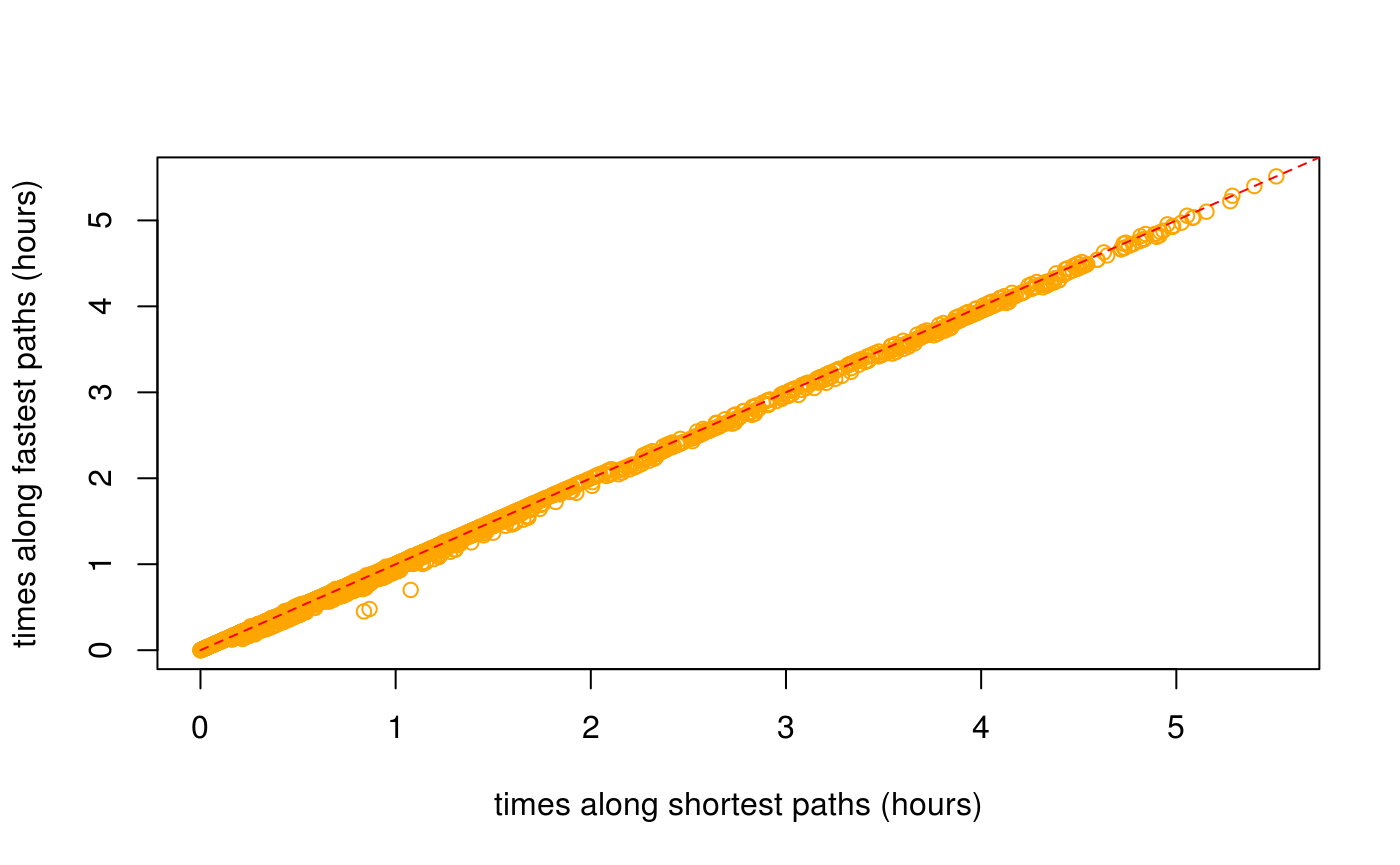
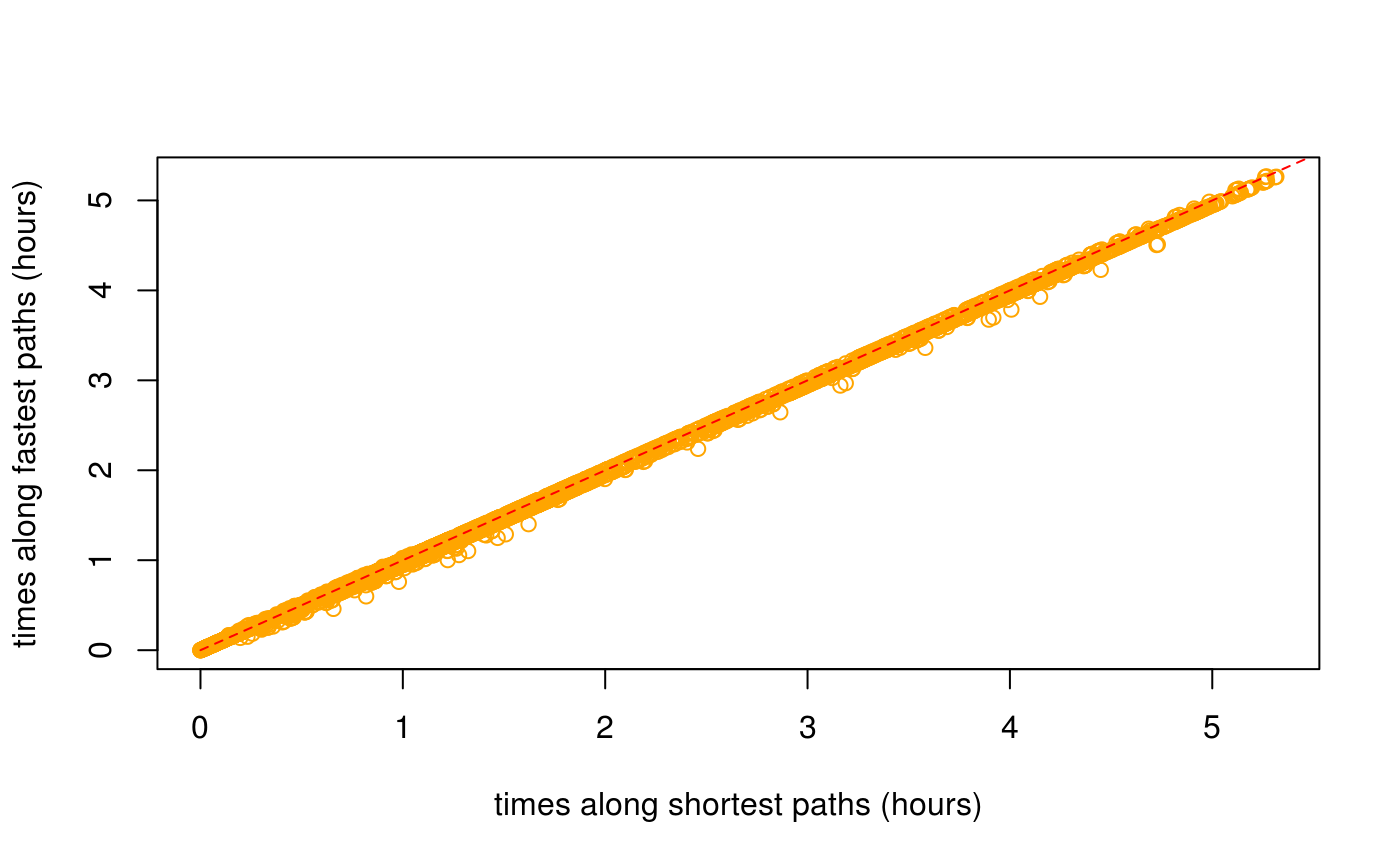
Built site for dodgr: 0.1.4.7@c9f664d

diff --git a/articles/dodgr.html b/articles/dodgr.html
@@ -343,7 +343,7 @@ Figure 2: A <strong>dual</strong>-weighted, directed graph in which the weights 
 <p>The <code>dodgr</code> packages includes a function to select a random connected portion of graph including a specified number of vertices. This function is used in the <code><a href="../reference/compare_heaps.html">compare_heaps()</a></code> function described below, but is also useful for general statistical analyses of large graphs which may otherwise take too long to compute.</p>
 <div class="sourceCode" id="cb59"><pre class="sourceCode r"><code class="sourceCode r"><a class="sourceLine" id="cb59-1" data-line-number="1">graph_sub &lt;-<span class="st"> </span><span class="kw"><a href="../reference/dodgr_sample.html">dodgr_sample</a></span> (graph, <span class="dt">nverts =</span> <span class="dv">100</span>)</a>
 <a class="sourceLine" id="cb59-2" data-line-number="2"><span class="kw"><a href="https://www.rdocumentation.org/packages/base/topics/nrow">nrow</a></span> (graph_sub)</a></code></pre></div>
-<pre><code>## [1] 201</code></pre>
+<pre><code>## [1] 197</code></pre>
 <p>The random sample has around twice as many edges as vertices, in accordance with the statistics calculated above.</p>
 <div class="sourceCode" id="cb61"><pre class="sourceCode r"><code class="sourceCode r"><a class="sourceLine" id="cb61-1" data-line-number="1"><span class="kw"><a href="https://www.rdocumentation.org/packages/base/topics/nrow">nrow</a></span> (<span class="kw"><a href="../reference/dodgr_vertices.html">dodgr_vertices</a></span> (graph_sub))</a></code></pre></div>
 <pre><code>## [1] 100</code></pre>
@@ -423,28 +423,28 @@ Figure 2: A <strong>dual</strong>-weighted, directed graph in which the weights 
 ## 12                  d &lt;- igraph::distances(igr, v = from_id, to = to_id, mode = "out")
 ## 6       d &lt;- dodgr_dists(graph_contracted, from = from_id, to = to_id, heap = "BHeap")
 ## 7       d &lt;- dodgr_dists(graph_contracted, from = from_id, to = to_id, heap = "FHeap")
-## 5                 d &lt;- dodgr_dists(graph, from = from_id, to = to_id, heap = "Heap23")
 ## 8     d &lt;- dodgr_dists(graph_contracted, from = from_id, to = to_id, heap = "TriHeap")
 ## 9  d &lt;- dodgr_dists(graph_contracted, from = from_id, to = to_id, heap = "TriHeapExt")
 ## 10     d &lt;- dodgr_dists(graph_contracted, from = from_id, to = to_id, heap = "Heap23")
-## 11        d &lt;- dodgr_dists(graph_contracted, from = from_id, to = to_id, heap = "set")
 ## 4             d &lt;- dodgr_dists(graph, from = from_id, to = to_id, heap = "TriHeapExt")
+## 5                 d &lt;- dodgr_dists(graph, from = from_id, to = to_id, heap = "Heap23")
+## 11        d &lt;- dodgr_dists(graph_contracted, from = from_id, to = to_id, heap = "set")
 ## 1                  d &lt;- dodgr_dists(graph, from = from_id, to = to_id, heap = "BHeap")
-## 3                d &lt;- dodgr_dists(graph, from = from_id, to = to_id, heap = "TriHeap")
 ## 2                  d &lt;- dodgr_dists(graph, from = from_id, to = to_id, heap = "FHeap")
+## 3                d &lt;- dodgr_dists(graph, from = from_id, to = to_id, heap = "TriHeap")
 ##    replications elapsed relative user.self sys.self user.child sys.child
-## 12            1   0.001        1     0.004        0          0         0
+## 12            1   0.001        1     0.000        0          0         0
 ## 6             1   0.002        2     0.004        0          0         0
-## 7             1   0.002        2     0.004        0          0         0
-## 5             1   0.003        3     0.000        0          0         0
-## 8             1   0.003        3     0.004        0          0         0
-## 9             1   0.003        3     0.000        0          0         0
-## 10            1   0.003        3     0.000        0          0         0
+## 7             1   0.002        2     0.000        0          0         0
+## 8             1   0.002        2     0.000        0          0         0
+## 9             1   0.002        2     0.004        0          0         0
+## 10            1   0.002        2     0.004        0          0         0
+## 4             1   0.003        3     0.004        0          0         0
+## 5             1   0.003        3     0.004        0          0         0
 ## 11            1   0.003        3     0.004        0          0         0
-## 4             1   0.004        4     0.004        0          0         0
-## 1             1   0.005        5     0.004        0          0         0
-## 3             1   0.005        5     0.004        0          0         0
-## 2             1   0.009        9     0.008        0          0         0</code></pre>
+## 1             1   0.004        4     0.004        0          0         0
+## 2             1   0.004        4     0.004        0          0         0
+## 3             1   0.004        4     0.004        0          0         0</code></pre>
 <p>The key column of that <code>data.frame</code> is <code>relative</code>, which quantifies the relative performance of each test in relation to the best which is given a score of 1. <code>dodgr</code> using the default <code>heap = "BHeap"</code>, which is a binary heap priority queue, performs faster than <code>igraph</code> <span class="citation">(Csardi and Nepusz 2006)</span> for these graphs. Different kind of graphs will perform differently with different priority queue structures, and this function enables users to empirically discern the optimal heap for their kind of graph.</p>
 <p>Note, however, that this is not an entirely fair comparison, because <code>dodgr</code> calculates dual-weighted distances, whereas <code>igraph</code>—and indeed all other <strong>R</strong> packages—only directly calculate distances based on a single set of weights. Implementing dual-weighted routing in these cases requires explicitly re-tracing all paths and summing the second set of weights along each path. A time comparison in that case would be very strongly in favour of <code>dodgr</code>. Moreover, <code>dodgr</code> can convert graphs to contracted form through removing redundant vertices, as detailed in the following section. Doing so greatly improves performance with respect to <code>igraph</code>.</p>
 <p>For those wishing to do explicit comparisons themselves, the following code generates the <code>igraph</code> equivalent of <code><a href="../reference/dodgr_dists.html">dodgr_dists()</a></code>, although of course for single-weighted graphs only:</p>
@@ -497,11 +497,11 @@ Figure 3: <strong>(A)</strong> Vertex#2 is redundant for routing calculations fr
 <pre><code>## [1] 672</code></pre>
 <div class="sourceCode" id="cb89"><pre class="sourceCode r"><code class="sourceCode r"><a class="sourceLine" id="cb89-1" data-line-number="1">verts &lt;-<span class="st"> </span><span class="kw"><a href="https://www.rdocumentation.org/packages/base/topics/sample">sample</a></span> (<span class="kw"><a href="../reference/dodgr_vertices.html">dodgr_vertices</a></span> (graph)<span class="op">$</span>id, <span class="dt">size =</span> <span class="dv">100</span>)</a>
 <a class="sourceLine" id="cb89-2" data-line-number="2"><span class="kw"><a href="https://www.rdocumentation.org/packages/utils/topics/head">head</a></span> (verts) <span class="co"># a character vector</span></a></code></pre></div>
-<pre><code>## [1] "2195425013" "2608081942" "2195425052" "977473138"  "338908066" 
-## [6] "1148814827"</code></pre>
+<pre><code>## [1] "1691496081" "2398957747" "676875274"  "3697943909" "980400568" 
+## [6] "2398957689"</code></pre>
 <div class="sourceCode" id="cb91"><pre class="sourceCode r"><code class="sourceCode r"><a class="sourceLine" id="cb91-1" data-line-number="1">grc &lt;-<span class="st"> </span><span class="kw"><a href="../reference/dodgr_contract_graph.html">dodgr_contract_graph</a></span> (graph, verts)</a>
 <a class="sourceLine" id="cb91-2" data-line-number="2"><span class="kw"><a href="https://www.rdocumentation.org/packages/base/topics/nrow">nrow</a></span> (grc)</a></code></pre></div>
-<pre><code>## [1] 865</code></pre>
+<pre><code>## [1] 856</code></pre>
 <p>Retaining the nominated vertices yields a graph with considerably more edges than the fully contracted graph excluding these vertices. The <code><a href="../reference/dodgr_dists.html">dodgr_dists()</a></code> function can be applied to the latter graph to obtain accurate distances precisely routed between these points, yet using the speed advantages of graph contraction.</p>
 </div>
 </div>
@@ -542,32 +542,93 @@ Figure 3: <strong>(A)</strong> Vertex#2 is redundant for routing calculations fr
 <pre><code>## [1] 10</code></pre>
 <p>The result (<code>dp</code>) is a list of 10 items, each of which contains 5 vectors. An example is,</p>
 <div class="sourceCode" id="cb98"><pre class="sourceCode r"><code class="sourceCode r"><a class="sourceLine" id="cb98-1" data-line-number="1">dp [[<span class="dv">1</span>]] [[<span class="dv">1</span>]]</a></code></pre></div>
-<pre><code>##  [1] "5351820899" "5974426279" "5351820900" "5974426271" "5351820901"
-##  [6] "5351820902" "5351820903" "5351820904" "5351820905" "5351820906"
-## [11] "5351820907" "5351820908" "5974426280" "5351820909" "5351820910"
-## [16] "5974426272" "5974426265" "5351820911" "5974426258" "5351820913"
-## [21] "5351820914" "5351820915" "5351820916" "2588146068" "2588146127"
-## [26] "2588146020" "2588146125" "2588146098" "2588146103" "2588146101"
-## [31] "2588146089" "2588146081" "2588146050" "2588146042" "2588146120"
-## [36] "2588146091" "2588146032" "2398957747" "2398957748" "1390214349"
-## [41] "2398957751" "2398957754" "286632888"  "2398957758" "2398957760"
-## [46] "2398957761" "2398957762" "2398957764" "2398957765" "2398957768"
-## [51] "2398957774" "2398957775" "1390214918" "2398957782" "2398957783"
-## [56] "286632889"  "1390214848" "2398957792" "2398957793" "286632890" 
-## [61] "2398957794" "2398957795" "2398957796" "2398957797" "2398957798"
-## [66] "340148006"  "340148007"  "2398957809" "2398957814" "286632895" 
-## [71] "1390214618" "2398957831" "2398957835" "286632896"  "2398957838"</code></pre>
+<pre><code>##   [1] "3544918820" "3544918817" "3544918814" "3544918812" "5808637266"
+##   [6] "3544918808" "3544918807" "5808637265" "3544918806" "3544918801"
+##  [11] "3544918799" "3544918796" "3544918794" "3544918793" "3544918791"
+##  [16] "3544918790" "3544918785" "3544918781" "3544918777" "3544918772"
+##  [21] "3544918770" "3544918764" "5808637173" "3544918760" "3544918757"
+##  [26] "3544918756" "3544918749" "3544918745" "3544918726" "3544918719"
+##  [31] "3544918713" "3544918711" "3544918709" "3544918710" "3544918712"
+##  [36] "3544918714" "3544918715" "3544918717" "3544918718" "3544918722"
+##  [41] "3544918727" "3544918728" "3544918729" "3544918730" "3544918734"
+##  [46] "3544918738" "3544918736" "3544918737" "3544918739" "3544918742"
+##  [51] "3544918741" "3544918740" "3544918735" "3544918733" "3544918732"
+##  [56] "3544918731" "3544918725" "3544918720" "3544918716" "3544918708"
+##  [61] "3544918705" "3544918701" "3544918699" "1691496284" "3544918695"
+##  [66] "3544918692" "3544918690" "3544918688" "3544918684" "677638827" 
+##  [71] "1691496416" "677638828"  "1691496412" "1161117556" "1691496409"
+##  [76] "677638825"  "1691496407" "1691496375" "1691496404" "1691496406"
+##  [81] "1691496372" "1691495745" "1691496367" "677638829"  "1161117413"
+##  [86] "1161117358" "1161117772" "1691496364" "1691496190" "677638821" 
+##  [91] "1691496086" "1161117473" "1161117620" "1691496081" "676875383" 
+##  [96] "1691495727" "677638822"  "677638823"  "1691495723" "1691495720"
+## [101] "1691495717" "1161117349" "1691495698" "245631502"  "1691495696"
+## [106] "1161117543" "1691495693" "1691495680" "1691495677" "1161117452"
+## [111] "1691495672" "1161117302" "1691495665" "1691495937" "1161117663"
+## [116] "1691496251" "1691496243" "1161117704" "1691496247" "1691496237"
+## [121] "1161117404" "1691496236" "1691496204" "1161117288" "1691495910"
+## [126] "1691495985" "677638817"  "1161117652" "1161117586" "1691495982"
+## [131] "1161117526" "1691495952" "1691495943" "1161117392" "1691495939"
+## [136] "1161117756" "1691495934" "1161117440" "1376769146" "1161117501"
+## [141] "1691495929" "1161117383" "1691496079" "1161117679" "677638820" 
+## [146] "1691496070" "1161117278" "1691496072" "1691496075" "1128374463"
+## [151] "1161117327" "2398958044" "2398958043" "2398958041" "2398958040"
+## [156] "677638818"  "6433630456" "1161117434" "2398958010" "2398958005"
+## [161] "1128374490" "2398957968" "1161117636" "2398957939" "1376768724"
+## [166] "677638819"  "1376768355" "1128374455" "1376768842" "2398957896"
+## [171] "2398957895" "1128374434" "1376768821" "677638770"  "1376768479"
+## [176] "1376769040" "2398957837" "2398957826" "1128374394" "2398957816"
+## [181] "1376768691" "977461235"  "1128374418" "1376768409" "1376768986"
+## [186] "245631194"  "1376768627" "1128374362" "676875279"  "1357430213"
+## [191] "1161117548" "1128374360" "1376769220" "1376768749" "1357430014"
+## [196] "1376768380" "676875276"  "1376768957" "1357430113" "1376768597"
+## [201] "1376768325" "1161117723" "1376768899" "1161117735" "1376768537"
+## [206] "676875308"  "1376769132" "1128374447" "1376768650" "1376768293"
+## [211] "676875274"  "1376768867" "1161117304" "1376768504" "1128374467"
+## [216] "1128374373" "6161027522" "1128374412" "1376769190" "1128374442"
+## [221] "676875269"  "245631169"  "1376768805" "2398957722" "313796425" 
+## [226] "2398957720" "1376769010" "2398957713" "1376768565" "2398957701"
+## [231] "2398957696" "1128374495" "313796426"  "1128374399" "313796427" 
+## [236] "313796428"  "2398957603" "313796429"  "1427594112" "1376769158"
+## [241] "313796430"  "313796431"  "2398957567" "2398957563" "3338186986"
+## [246] "313796432"  "2398957555" "2398957554" "1376768773" "313796433" 
+## [251] "2419196948" "2398957539" "676875267"  "2398957521" "2398957526"
+## [256] "2398957532" "2398957537" "676635860"  "2398957542" "2398957543"
+## [261] "2398957544" "2398957546" "338905245"  "2398957549" "2398957557"
+## [266] "2398957561" "338905227"  "2398957564" "338905221"  "2398957568"
+## [271] "2398957570" "2398957571" "1427594104" "2398957576" "338905220" 
+## [276] "2398957584" "1376769086" "1376768510" "2398957588" "2398957589"
+## [281] "338905219"  "1376768779" "1376769164" "338905128"  "1427115955"
+## [286] "339574628"  "2398957619" "339574629"  "339574630"  "2398957639"
+## [291] "2398957654" "1148814809" "2717241324" "339574631"  "2398957686"
+## [296] "3818714155" "339574819"  "339574820"  "3818714154" "6228103645"
+## [301] "6228103646" "6228103647" "6228103648" "6228103649" "339574828" 
+## [306] "339574829"  "1376768626" "1376768985" "1376768324" "1376768690"
+## [311] "1376769039" "1376768478" "1560930407" "1376768586" "1376768946"
+## [316] "1376768369" "1376768738" "2717241312" "2717241323" "2717241306"
+## [321] "2717241321" "2717241309" "2717241332" "2717241339" "2717241317"
+## [326] "2717241331" "2717241300" "2717241302" "6410121124" "1376768559"
+## [331] "1376768918" "1376769209" "1376768614" "1376768975" "1376768398"
+## [336] "1376768862" "1376768464" "1376768828" "1376769110" "3697937607"
+## [341] "3697937608" "3697937609" "3697937616" "3697937612" "3697937611"
+## [346] "3697937613" "3697937614" "3697937615" "3697937610" "3697937571"
+## [351] "3697938325" "3697938326" "3697938327" "3697938328" "3697938332"
+## [356] "3697938329" "3697938330" "3697938331" "3697938336" "3697938337"
+## [361] "3697938338" "3697938333" "3697938334" "3697938335" "3697938022"
+## [366] "3697938021" "3697938023" "3697938024" "338904455"  "2398957843"
+## [371] "338908589"  "1148814896" "286632900"  "2398957865" "2398957867"
+## [376] "2398957871" "2398957873" "2398957875"</code></pre>
 <p>For spatial graphs, the coordinates of these paths can be obtained by extracting the vertices with <code><a href="../reference/dodgr_vertices.html">dodgr_vertices()</a></code> and matching the vertex IDs:</p>
 <div class="sourceCode" id="cb100"><pre class="sourceCode r"><code class="sourceCode r"><a class="sourceLine" id="cb100-1" data-line-number="1">verts &lt;-<span class="st"> </span><span class="kw"><a href="../reference/dodgr_vertices.html">dodgr_vertices</a></span> (graph)</a>
 <a class="sourceLine" id="cb100-2" data-line-number="2">path1 &lt;-<span class="st"> </span>verts [<span class="kw"><a href="https://www.rdocumentation.org/packages/base/topics/match">match</a></span> (dp [[<span class="dv">1</span>]] [[<span class="dv">1</span>]], verts<span class="op">$</span>id), ]</a>
 <a class="sourceLine" id="cb100-3" data-line-number="3"><span class="kw"><a href="https://www.rdocumentation.org/packages/utils/topics/head">head</a></span> (path1)</a></code></pre></div>
-<pre><code>##              id        x        y component    n
-## 5580 5351820899 76.44337 15.31614         1 2756
-## 5582 5974426279 76.44332 15.31641         1 2757
-## 5584 5351820900 76.44328 15.31649         1 2758
-## 5586 5974426271 76.44320 15.31659         1 2759
-## 5588 5351820901 76.44314 15.31670         1 2760
-## 5590 5351820902 76.44307 15.31675         1 2761</code></pre>
+<pre><code>##              id        x        y component   n
+## 1200 3544918820 76.60610 15.39981         1 612
+## 1198 3544918817 76.60541 15.39816         1 611
+## 1196 3544918814 76.60497 15.39698         1 610
+## 1194 3544918812 76.60486 15.39639         1 609
+## 1192 5808637266 76.60488 15.39499         1 608
+## 1190 3544918808 76.60479 15.39356         1 607</code></pre>
 <p>Paths calculated on contracted graphs will of course have fewer vertices than those calculated on full graphs.</p>
 </div>
 <div id="aggregated-flows" class="section level1">
@@ -611,7 +672,7 @@ Figure 3: <strong>(A)</strong> Vertex#2 is redundant for routing calculations fr
 <p>Most flows are zero because they have only been calculated between very few points in the graph.</p>
 <div class="sourceCode" id="cb105"><pre class="sourceCode r"><code class="sourceCode r"><a class="sourceLine" id="cb105-1" data-line-number="1"><span class="kw"><a href="https://www.rdocumentation.org/packages/base/topics/summary">summary</a></span> (graph_f<span class="op">$</span>flow)</a></code></pre></div>
 <pre><code>##    Min. 1st Qu.  Median    Mean 3rd Qu.    Max. 
-##    0.00    0.00    0.00    6.00    0.00   80.24</code></pre>
+##   0.000   0.000   0.000   7.041   6.855  76.114</code></pre>
 </div>
 <div id="flow-dispersal" class="section level2">
 <h2 class="hasAnchor">
@@ -621,7 +682,7 @@ Figure 3: <strong>(A)</strong> Vertex#2 is redundant for routing calculations fr
 <a class="sourceLine" id="cb107-2" data-line-number="2">graph_f &lt;-<span class="st"> </span><span class="kw"><a href="../reference/dodgr_flows_disperse.html">dodgr_flows_disperse</a></span> (graph, <span class="dt">from =</span> from, <span class="dt">dens =</span> dens)</a>
 <a class="sourceLine" id="cb107-3" data-line-number="3"><span class="kw"><a href="https://www.rdocumentation.org/packages/base/topics/summary">summary</a></span> (graph_f<span class="op">$</span>flow)</a></code></pre></div>
 <pre><code>##      Min.   1st Qu.    Median      Mean   3rd Qu.      Max. 
-## 0.000e+00 0.000e+00 0.000e+00 1.375e-05 0.000e+00 7.425e-02</code></pre>
+## 0.000e+00 0.000e+00 0.000e+00 9.053e-06 0.000e+00 2.846e-02</code></pre>
 </div>
 <div id="merging-directed-flows" class="section level2">
 <h2 class="hasAnchor">
@@ -631,7 +692,7 @@ Figure 3: <strong>(A)</strong> Vertex#2 is redundant for routing calculations fr
 <p>Resultant graphs produced by <code><a href="../reference/merge_directed_flows.html">merge_directed_flows()</a></code> only include those edges having non-zero flows, and so:</p>
 <div class="sourceCode" id="cb110"><pre class="sourceCode r"><code class="sourceCode r"><a class="sourceLine" id="cb110-1" data-line-number="1"><span class="kw"><a href="https://www.rdocumentation.org/packages/base/topics/nrow">nrow</a></span> (graph_f); <span class="kw"><a href="https://www.rdocumentation.org/packages/base/topics/nrow">nrow</a></span> (graph_undir) <span class="co"># the latter is much smaller</span></a></code></pre></div>
 <pre><code>## [1] 5973</code></pre>
-<pre><code>## [1] 1622</code></pre>
+<pre><code>## [1] 1694</code></pre>
 <p>The resultant graph can readily be merged with the original graph to regain the original data on vertex coordinates through</p>
 <div class="sourceCode" id="cb113"><pre class="sourceCode r"><code class="sourceCode r"><a class="sourceLine" id="cb113-1" data-line-number="1">graph &lt;-<span class="st"> </span>graph [graph_undir<span class="op">$</span>edge_id, ]</a>
 <a class="sourceLine" id="cb113-2" data-line-number="2">graph<span class="op">$</span>flow &lt;-<span class="st"> </span>graph_undir<span class="op">$</span>flow</a></code></pre></div>

diff --git a/articles/times.html b/articles/times.html
@@ -233,11 +233,11 @@ Figure 1: Graph modification to account for turn angles, which introduces the ad
 <p><img src="times_files/figure-html/shortest-vs-fastest-1.png" width="700"></p>
 <p>The average distance between the two (in metres) is:</p>
 <div class="sourceCode" id="cb11"><pre class="sourceCode r"><code class="sourceCode r"><a class="sourceLine" id="cb11-1" data-line-number="1"><span class="kw"><a href="https://www.rdocumentation.org/packages/base/topics/mean">mean</a></span> (<span class="kw"><a href="https://www.rdocumentation.org/packages/base/topics/MathFun">abs</a></span> (d_time <span class="op">-</span><span class="st"> </span>d_dist), <span class="dt">na.rm =</span> <span class="ot">TRUE</span>)</a></code></pre></div>
-<pre><code>## [1] 43.8011</code></pre>
+<pre><code>## [1] 64.34758</code></pre>
 <p>The plot reveals that shortest distances are indeed somewhat shorter than distances along fastest paths, but also that some fastest paths are actually shorter than shortest paths:</p>
 <div class="sourceCode" id="cb13"><pre class="sourceCode r"><code class="sourceCode r"><a class="sourceLine" id="cb13-1" data-line-number="1">index &lt;-<span class="st"> </span><span class="kw"><a href="https://www.rdocumentation.org/packages/base/topics/which">which</a></span> (<span class="op">!</span><span class="kw"><a href="https://www.rdocumentation.org/packages/base/topics/NA">is.na</a></span> (d_time) <span class="op">&amp;</span><span class="st"> </span><span class="op">!</span><span class="kw"><a href="https://www.rdocumentation.org/packages/base/topics/NA">is.na</a></span> (d_dist))</a>
 <a class="sourceLine" id="cb13-2" data-line-number="2"><span class="kw"><a href="https://www.rdocumentation.org/packages/base/topics/length">length</a></span> (<span class="kw"><a href="https://www.rdocumentation.org/packages/base/topics/which">which</a></span> (d_time [index] <span class="op">&lt;</span><span class="st"> </span>d_dist [index])) <span class="op">/</span><span class="st"> </span><span class="kw"><a href="https://www.rdocumentation.org/packages/base/topics/length">length</a></span> (index)</a></code></pre></div>
-<pre><code>## [1] 0.01953125</code></pre>
+<pre><code>## [1] 0.006646972</code></pre>
 <p>While <code>dodgr</code> and indeed all routing engines attempt to maximally reconcile differences between fastest and shortest routes, there nevertheless remain important discrepancies. Foremost among these, and the primary reason why some fastest routes may in fact be shorter than shortest routes, is that fastest routes allocate preferences for different kinds of way based both on the <code>value</code> column in the <code>weighting_profiles$weighting_profiles</code> table illustrated above, and on the actual maximum speed of a given edge, which itself may be a combination of maximum speeds as specified in OSM itself, maximum speeds from the <code>weighting_profiles$weighting_profiles</code> table, or values specific to a given surface. The result is that some unique combination of maximum speeds along a network may lead to <em>fastest</em> routes being preferentially directed along a path that is actually shorter than the direct shortest path which is calculated independent of maximum speed values.</p>
 <p>Such discrepancies are important in understanding differences in routes <em>times</em> calculated along shortest versus fastest paths. These times can be calculated (in seconds) with the <a href="https://atfutures.github.io/dodgr/reference/dodgr_times.html"><code><a href="../reference/dodgr_times.html">dodgr_times()</a></code></a> function:</p>
 <div class="sourceCode" id="cb15"><pre class="sourceCode r"><code class="sourceCode r"><a class="sourceLine" id="cb15-1" data-line-number="1">t_dist &lt;-<span class="st"> </span><span class="kw"><a href="../reference/dodgr_times.html">dodgr_times</a></span> (graph, <span class="dt">from =</span> from, <span class="dt">to =</span> to, <span class="dt">shortest =</span> <span class="ot">TRUE</span>) <span class="co"># default</span></a>
@@ -248,11 +248,11 @@ Figure 1: Graph modification to account for turn angles, which introduces the ad
 <a class="sourceLine" id="cb15-6" data-line-number="6"><span class="kw"><a href="https://www.rdocumentation.org/packages/graphics/topics/lines">lines</a></span> (<span class="dv">0</span><span class="op">:</span><span class="dv">100</span>, <span class="dv">0</span><span class="op">:</span><span class="dv">100</span>, <span class="dt">col =</span> <span class="st">"red"</span>, <span class="dt">lty =</span> <span class="dv">2</span>)</a></code></pre></div>
 <p><img src="times_files/figure-html/shortest-vs-fastest-times-1.png" width="700"></p>
 <div class="sourceCode" id="cb16"><pre class="sourceCode r"><code class="sourceCode r"><a class="sourceLine" id="cb16-1" data-line-number="1"><span class="kw"><a href="https://www.rdocumentation.org/packages/base/topics/mean">mean</a></span> (<span class="kw"><a href="https://www.rdocumentation.org/packages/base/topics/MathFun">abs</a></span> (t_time <span class="op">-</span><span class="st"> </span>t_dist), <span class="dt">na.rm =</span> <span class="ot">TRUE</span>)</a></code></pre></div>
-<pre><code>## [1] 48.23385</code></pre>
+<pre><code>## [1] 56.0551</code></pre>
 <p>As above, times along fastest paths are generally less than times along shortest paths, although there are again a few exceptions:</p>
 <div class="sourceCode" id="cb18"><pre class="sourceCode r"><code class="sourceCode r"><a class="sourceLine" id="cb18-1" data-line-number="1">index &lt;-<span class="st"> </span><span class="kw"><a href="https://www.rdocumentation.org/packages/base/topics/which">which</a></span> (<span class="op">!</span><span class="kw"><a href="https://www.rdocumentation.org/packages/base/topics/NA">is.na</a></span> (t_time) <span class="op">&amp;</span><span class="st"> </span><span class="op">!</span><span class="kw"><a href="https://www.rdocumentation.org/packages/base/topics/NA">is.na</a></span> (t_dist))</a>
 <a class="sourceLine" id="cb18-2" data-line-number="2"><span class="kw"><a href="https://www.rdocumentation.org/packages/base/topics/length">length</a></span> (<span class="kw"><a href="https://www.rdocumentation.org/packages/base/topics/which">which</a></span> (t_dist [index] <span class="op">&lt;</span><span class="st"> </span>t_time [index])) <span class="op">/</span><span class="st"> </span><span class="kw"><a href="https://www.rdocumentation.org/packages/base/topics/length">length</a></span> (index)</a></code></pre></div>
-<pre><code>## [1] 0.0109375</code></pre>
+<pre><code>## [1] 0.03415805</code></pre>
 <p>These results demonstrate how the combination of the <a href="https://atfutures.github.io/dodgr/reference/dodgr_distances.html"><code><a href="../reference/dodgr_distances.html">dodgr_distances()</a></code></a> and <a href="https://atfutures.github.io/dodgr/reference/dodgr_times.html"><code><a href="../reference/dodgr_times.html">dodgr_times()</a></code></a> functions enable calculation of both distances and times along both shortest and fastest paths.</p>
 <div id="time-based-paths-and-flow-aggregation" class="section level2">
 <h2 class="hasAnchor">

diff --git a/reference/compare_heaps.html b/reference/compare_heaps.html
@@ -158,27 +158,27 @@ fair comparisons, run only once or re-start the current R session.</p>
 #&gt; 11        d &lt;- dodgr_dists(graph_contracted, from = from_id, to = to_id, heap = "set")
 #&gt; 7       d &lt;- dodgr_dists(graph_contracted, from = from_id, to = to_id, heap = "FHeap")
 #&gt; 8     d &lt;- dodgr_dists(graph_contracted, from = from_id, to = to_id, heap = "TriHeap")
-#&gt; 10     d &lt;- dodgr_dists(graph_contracted, from = from_id, to = to_id, heap = "Heap23")
 #&gt; 9  d &lt;- dodgr_dists(graph_contracted, from = from_id, to = to_id, heap = "TriHeapExt")
+#&gt; 10     d &lt;- dodgr_dists(graph_contracted, from = from_id, to = to_id, heap = "Heap23")
 #&gt; 12                  d &lt;- igraph::distances(igr, v = from_id, to = to_id, mode = "out")
 #&gt; 1                  d &lt;- dodgr_dists(graph, from = from_id, to = to_id, heap = "BHeap")
-#&gt; 2                  d &lt;- dodgr_dists(graph, from = from_id, to = to_id, heap = "FHeap")
 #&gt; 5                 d &lt;- dodgr_dists(graph, from = from_id, to = to_id, heap = "Heap23")
 #&gt; 3                d &lt;- dodgr_dists(graph, from = from_id, to = to_id, heap = "TriHeap")
+#&gt; 2                  d &lt;- dodgr_dists(graph, from = from_id, to = to_id, heap = "FHeap")
 #&gt; 4             d &lt;- dodgr_dists(graph, from = from_id, to = to_id, heap = "TriHeapExt")
 #&gt;    replications elapsed relative user.self sys.self user.child sys.child
-#&gt; 6             1   0.007    1.000     0.008        0          0         0
-#&gt; 11            1   0.007    1.000     0.012        0          0         0
-#&gt; 7             1   0.009    1.286     0.012        0          0         0
-#&gt; 8             1   0.009    1.286     0.016        0          0         0
-#&gt; 10            1   0.009    1.286     0.016        0          0         0
-#&gt; 9             1   0.016    2.286     0.016        0          0         0
-#&gt; 12            1   0.020    2.857     0.020        0          0         0
-#&gt; 1             1   0.030    4.286     0.052        0          0         0
-#&gt; 2             1   0.041    5.857     0.072        0          0         0
-#&gt; 5             1   0.042    6.000     0.076        0          0         0
-#&gt; 3             1   0.043    6.143     0.076        0          0         0
-#&gt; 4             1   0.046    6.571     0.044        0          0         0</div></pre>
+#&gt; 6             1   0.005      1.0     0.008        0          0         0
+#&gt; 11            1   0.005      1.0     0.008        0          0         0
+#&gt; 7             1   0.006      1.2     0.008        0          0         0
+#&gt; 8             1   0.006      1.2     0.008        0          0         0
+#&gt; 9             1   0.006      1.2     0.004        0          0         0
+#&gt; 10            1   0.006      1.2     0.008        0          0         0
+#&gt; 12            1   0.014      2.8     0.016        0          0         0
+#&gt; 1             1   0.030      6.0     0.028        0          0         0
+#&gt; 5             1   0.032      6.4     0.056        0          0         0
+#&gt; 3             1   0.033      6.6     0.056        0          0         0
+#&gt; 2             1   0.035      7.0     0.060        0          0         0
+#&gt; 4             1   0.035      7.0     0.036        0          0         0</div></pre>
   </div>
   <div class="col-md-3 hidden-xs hidden-sm" id="sidebar">
     <h2>Contents</h2>

diff --git a/reference/dodgr_sample.html b/reference/dodgr_sample.html
@@ -141,7 +141,7 @@ the requested <code>nverts</code>.</p>
     <h2 class="hasAnchor" id="examples"><a class="anchor" href="#examples"></a>Examples</h2>
     <pre class="examples"><div class='input'><span class='no'>graph</span> <span class='kw'>&lt;-</span> <span class='fu'><a href='weight_streetnet.html'>weight_streetnet</a></span> (<span class='no'>hampi</span>)
 <span class='fu'><a href='https://www.rdocumentation.org/packages/base/topics/nrow'>nrow</a></span> (<span class='no'>graph</span>) <span class='co'># 5,742</span></div><div class='output co'>#&gt; [1] 5973</div><div class='input'><span class='no'>graph</span> <span class='kw'>&lt;-</span> <span class='fu'>dodgr_sample</span> (<span class='no'>graph</span>, <span class='kw'>nverts</span> <span class='kw'>=</span> <span class='fl'>200</span>)
-<span class='fu'><a href='https://www.rdocumentation.org/packages/base/topics/nrow'>nrow</a></span> (<span class='no'>graph</span>) <span class='co'># generally around 400 edges</span></div><div class='output co'>#&gt; [1] 411</div><div class='input'><span class='fu'><a href='https://www.rdocumentation.org/packages/base/topics/nrow'>nrow</a></span> (<span class='fu'><a href='dodgr_vertices.html'>dodgr_vertices</a></span> (<span class='no'>graph</span>)) <span class='co'># 200</span></div><div class='output co'>#&gt; [1] 200</div></pre>
+<span class='fu'><a href='https://www.rdocumentation.org/packages/base/topics/nrow'>nrow</a></span> (<span class='no'>graph</span>) <span class='co'># generally around 400 edges</span></div><div class='output co'>#&gt; [1] 417</div><div class='input'><span class='fu'><a href='https://www.rdocumentation.org/packages/base/topics/nrow'>nrow</a></span> (<span class='fu'><a href='dodgr_vertices.html'>dodgr_vertices</a></span> (<span class='no'>graph</span>)) <span class='co'># 200</span></div><div class='output co'>#&gt; [1] 200</div></pre>
   </div>
   <div class="col-md-3 hidden-xs hidden-sm" id="sidebar">
     <h2>Contents</h2>

diff --git a/index.html b/index.html
@@ -511,7 +511,7 @@
 <td align="right">1</td>
 <td align="right">95.358362</td>
 <td align="right">119.197952</td>
-<td align="right">37.83896</td>
+<td align="right">40.35509</td>
 </tr>
 <tr class="even">
 <td align="right">1</td>
@@ -529,7 +529,7 @@
 <td align="right">1</td>
 <td align="right">95.358362</td>
 <td align="right">119.197952</td>
-<td align="right">21.45244</td>
+<td align="right">19.36091</td>
 </tr>
 <tr class="odd">
 <td align="right">1</td>
@@ -547,7 +547,7 @@
 <td align="right">1</td>
 <td align="right">6.399843</td>
 <td align="right">7.999803</td>
-<td align="right">37.83896</td>
+<td align="right">40.35509</td>
 </tr>
 <tr class="even">
 <td align="right">1</td>
@@ -565,7 +565,7 @@
 <td align="right">1</td>
 <td align="right">6.399843</td>
 <td align="right">7.999803</td>
-<td align="right">21.45244</td>
+<td align="right">19.36091</td>
 </tr>
 <tr class="odd">
 <td align="right">1</td>
@@ -583,7 +583,7 @@
 <td align="right">1</td>
 <td align="right">6.715106</td>
 <td align="right">8.393882</td>
-<td align="right">37.83896</td>
+<td align="right">40.35509</td>
 </tr>
 <tr class="even">
 <td align="right">1</td>
@@ -601,7 +601,7 @@
 <td align="right">1</td>
 <td align="right">6.715106</td>
 <td align="right">8.393882</td>
-<td align="right">21.45244</td>
+<td align="right">19.36091</td>
 </tr>
 </tbody>
 </table>
